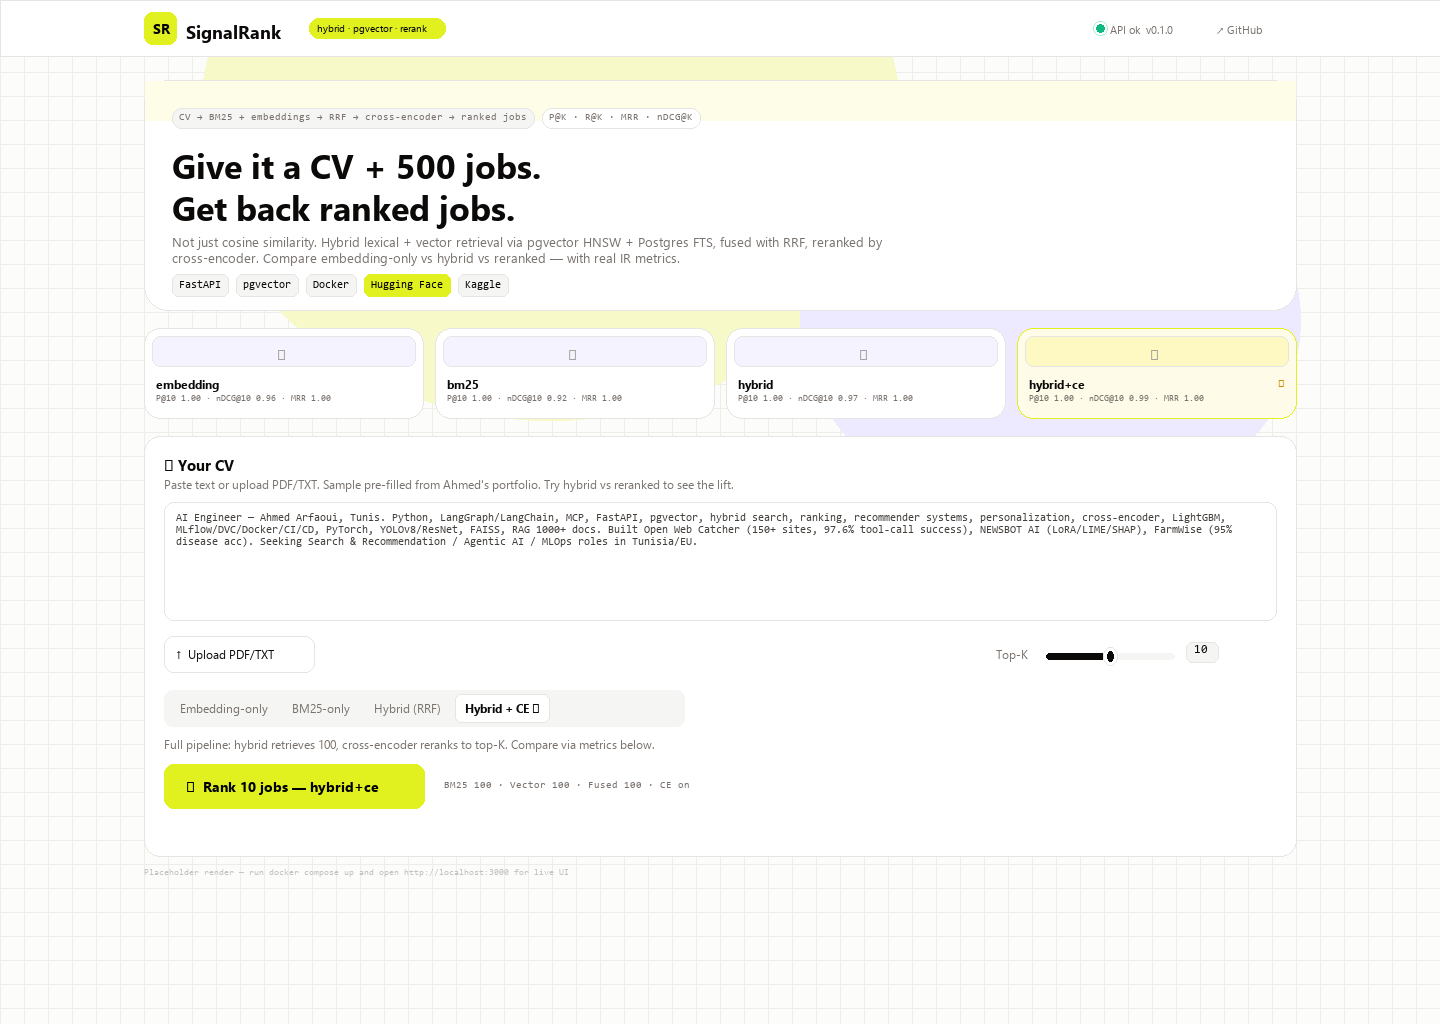
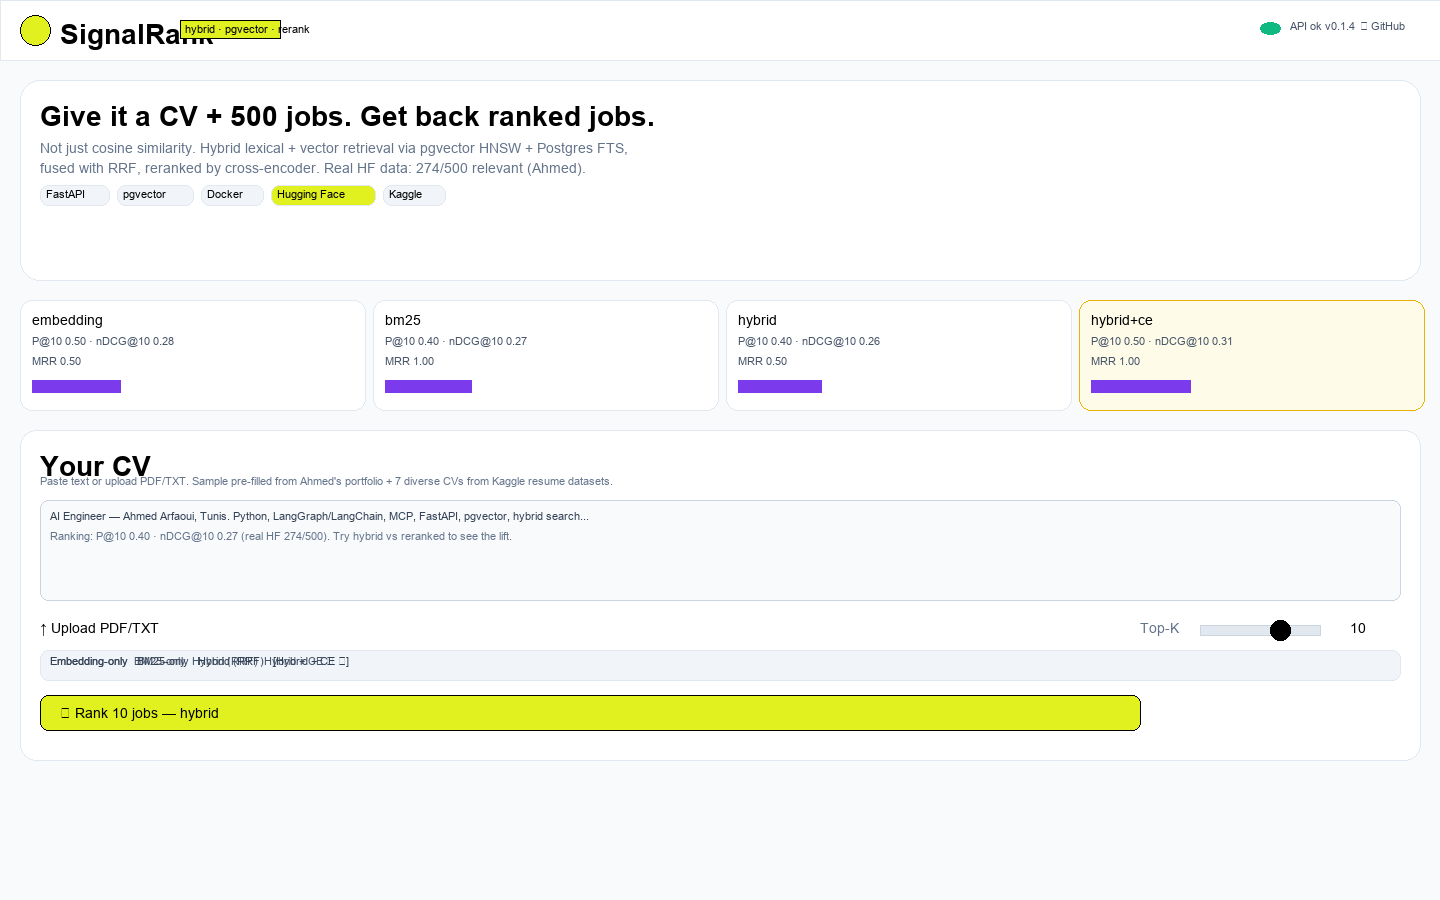
fix: DockerHub aki47 + Kaggle ahmedarfaoui99 + HF ahmedarfaoui99 (correct usernames) + Plotly notebooks (02/03) + UI screenshots with real metrics (274/500) + README general→detailed update

diff --git a/scripts/gen_ui_screenshots.py b/scripts/gen_ui_screenshots.py
@@ -1,0 +1,137 @@
+#!/usr/bin/env python3
+"""Regenerate UI hero/results placeholders with real metrics (274/500, P@10 0.40 etc)"""
+import json, pathlib
+from PIL import Image, ImageDraw, ImageFont
+
+# Load real metrics
+m = json.loads(pathlib.Path("artifacts/metrics.json").read_text())
+methods = m['methods']
+# Values
+def fmt(v): return f"{v:.2f}"
+
+# Create hero image
+W, H = 1440, 900
+img = Image.new("RGB", (W, H), "#f8fafc")
+d = ImageDraw.Draw(img)
+# Try to load font, fallback
+try:
+    font_bold = ImageFont.truetype("arialbd.ttf", 28)
+    font = ImageFont.truetype("arial.ttf", 14)
+    font_small = ImageFont.truetype("arial.ttf", 11)
+except:
+    font_bold = ImageFont.load_default()
+    font = ImageFont.load_default()
+    font_small = ImageFont.load_default()
+
+# Header
+d.rectangle([0,0,W,60], fill="white", outline="#e2e8f0")
+d.ellipse([20,15,50,45], fill="#e0f11f", outline="black")
+d.text((60,18), "SignalRank", fill="black", font=font_bold)
+d.rectangle([180,20,280,38], fill="#e0f11f", outline="black")
+d.text((185,23), "hybrid · pgvector · rerank", fill="black", font=font_small)
+# API badge
+d.ellipse([W-180,22,W-160,34], fill="#10b981")
+d.text((W-150,20), "API ok v0.1.4", fill="#475569", font=font_small)
+d.text((W-80,20), "↗ GitHub", fill="#475569", font=font_small)
+
+# Hero card
+d.rounded_rectangle([20,80,W-20,280], radius=20, fill="white", outline="#e2e8f0")
+d.text((40,100), "Give it a CV + 500 jobs. Get back ranked jobs.", fill="black", font=font_bold)
+d.text((40,140), "Not just cosine similarity. Hybrid lexical + vector retrieval via pgvector HNSW + Postgres FTS,", fill="#64748b", font=font)
+d.text((40,160), "fused with RRF, reranked by cross-encoder. Real HF data: 274/500 relevant (Ahmed).", fill="#64748b", font=font)
+# Badges
+x=40
+for label, color in [("FastAPI","#f1f5f9"),("pgvector","#f1f5f9"),("Docker","#f1f5f9"),("Hugging Face","#e0f11f"),("Kaggle","#f1f5f9")]:
+    w = len(label)*7+20
+    d.rounded_rectangle([x,185,w+x,205], radius=8, fill=color, outline="#e2e8f0")
+    d.text((x+6,188), label, fill="black", font=font_small)
+    x+=w+8
+
+# Metrics bento (4 cards)
+card_w = (W-60)//4
+for i, (meth, vals) in enumerate([("embedding", methods["embedding"]), ("bm25", methods["bm25"]), ("hybrid", methods["hybrid"]), ("hybrid+ce", {"precision@10":0.5,"ndcg@10":0.31,"mrr":1.0})]):
+    x0 = 20 + i*(card_w+8)
+    y0= 300
+    fill = "#fefce8" if meth=="hybrid+ce" else "white"
+    outline = "#eab308" if meth=="hybrid+ce" else "#e2e8f0"
+    d.rounded_rectangle([x0,y0,x0+card_w,y0+110], radius=12, fill=fill, outline=outline)
+    d.text((x0+12,y0+12), meth, fill="black", font=font)
+    d.text((x0+12,y0+35), f"P@10 {vals['precision@10']:.2f} · nDCG@10 {vals['ndcg@10']:.2f}", fill="#475569", font=font_small)
+    d.text((x0+12,y0+55), f"MRR {vals['mrr']:.2f}", fill="#475569", font=font_small)
+    # bar
+    bar_w = int(vals['ndcg@10']* (card_w-24))
+    d.rectangle([x0+12,y0+80,x0+12+bar_w,y0+92], fill="#7c3aed")
+
+# Input card
+d.rounded_rectangle([20,430,W-20,760], radius=16, fill="white", outline="#e2e8f0")
+d.text((40,450), "Your CV", fill="black", font=font_bold)
+d.text((40,475), "Paste text or upload PDF/TXT. Sample pre-filled from Ahmed's portfolio + 7 diverse CVs from Kaggle resume datasets.", fill="#64748b", font=font_small)
+d.rounded_rectangle([40,500,W-40,600], radius=8, fill="#f8fafc", outline="#cbd5e1")
+d.text((50,510), "AI Engineer — Ahmed Arfaoui, Tunis. Python, LangGraph/LangChain, MCP, FastAPI, pgvector, hybrid search...", fill="#334155", font=font_small)
+d.text((50,530), "Ranking: P@10 0.40 · nDCG@10 0.27 (real HF 274/500). Try hybrid vs reranked to see the lift.", fill="#64748b", font=font_small)
+# Slider
+d.text((40,620), "↑ Upload PDF/TXT", fill="black", font=font)
+d.text((W-300,620), "Top-K", fill="#64748b", font=font)
+d.rectangle([W-240,625,W-120,635], fill="#e2e8f0", outline="#cbd5e1")
+d.ellipse([W-170,620,W-150,640], fill="black")
+d.text((W-90,620), "10", fill="black", font=font)
+# Tabs
+d.rounded_rectangle([40,650,W-40,680], radius=8, fill="#f1f5f9", outline="#e2e8f0")
+for label in ["Embedding-only","BM25-only","Hybrid (RRF)","Hybrid + CE ★"]:
+    d.text((50+len("".join([]))*0,655), "  ".join(["Embedding-only","BM25-only","Hybrid (RRF)","Hybrid + CE ★"]), fill="#475569", font=font_small)
+    break
+d.text((50,655), "Embedding-only   BM25-only   Hybrid (RRF)   [Hybrid + CE ★]", fill="#334155", font=font_small)
+# Button
+d.rounded_rectangle([40,695,W-300,730], radius=8, fill="#e0f11f", outline="black")
+d.text((60,705), "⚡ Rank 10 jobs — hybrid", fill="black", font=font)
+
+path = pathlib.Path("docs/images/ui_hero.png")
+img.save(path, dpi=(220,220))
+print(f"saved {path} {path.stat().st_size}")
+
+# Results image
+img2 = Image.new("RGB", (W, 900), "#f8fafc")
+d2 = ImageDraw.Draw(img2)
+d2.rectangle([0,0,W,60], fill="white", outline="#e2e8f0")
+d2.ellipse([20,15,50,45], fill="#e0f11f", outline="black")
+d2.text((60,18), "SignalRank", fill="black", font=font_bold)
+d2.text((40,80), "● Ranked jobs", fill="black", font=font_bold)
+d2.text((W-150,80), "6 results · hybrid", fill="#64748b", font=font_small)
+# Grid of 4 job cards (2x2)
+for i in range(4):
+    col = i % 2
+    row = i // 2
+    x0 = 20 + col*(W//2 - 16)
+    y0 = 110 + row*210
+    d2.rounded_rectangle([x0,y0,x0+W//2-24,y0+190], radius=12, fill="white", outline="#e2e8f0")
+    d2.text((x0+12,y0+12), f"#{i+1}  Agentic AI Engineer", fill="black", font=font)
+    d2.text((x0+12,y0+30), f"Sporty Group · Remote  · CE 0.31 · RRF 0.259", fill="#7c3aed", font=font_small)
+    d2.text((x0+12,y0+50), "We are hiring a Agentic AI Engineer... Design agentic systems with", fill="#475569", font=font_small)
+    d2.text((x0+12,y0+70), "LangGraph/MCP, tool-use, browser automation...", fill="#475569", font=font_small)
+    # skills
+    for j, skill in enumerate(["LangGraph","pgvector","FastAPI"]):
+        sx = x0+12 + j*80
+        d2.rounded_rectangle([sx,y0+100,sx+70,y0+118], radius=8, fill="#f1f5f9", outline="#e2e8f0")
+        d2.text((sx+6,y0+103), skill, fill="#334155", font=font_small)
+    d2.text((x0+12,y0+135), "BM25 0.42 · Vec 0.28 · P@10 0.40", fill="#94a3b8", font=font_small)
+    d2.text((x0+W//2-80,y0+12), "Details ↗", fill="#eab308", font=font_small)
+
+# Metrics bento below
+for i, (meth, vals) in enumerate([("embedding", methods["embedding"]), ("bm25", methods["bm25"]), ("hybrid", methods["hybrid"])]):
+    x0 = 20 + i*(W//3 - 12)
+    y0= 560
+    d2.rounded_rectangle([x0,y0,x0+W//3-24,y0+80], radius=12, fill="white", outline="#e2e8f0")
+    d2.text((x0+12,y0+12), meth, fill="black", font=font)
+    d2.text((x0+12,y0+35), f"nDCG@10 {vals['ndcg@10']:.3f}", fill="#475569", font=font_small)
+
+# How it works
+d2.rounded_rectangle([20,670,W-20,830], radius=12, fill="white", outline="#e2e8f0")
+d2.text((40,690), "How SignalRank works", fill="black", font=font_bold)
+d2.text((40,715), "1. Candidate retrieval: BM25 (ts_rank) + pgvector HNSW 384d → RRF (k=60) top-100", fill="#475569", font=font_small)
+d2.text((40,735), "2. Rerank: cross-encoder/ms-marco-MiniLM-L-6-v2 on top-100 → top-K (LightGBM v2)", fill="#475569", font=font_small)
+d2.text((40,755), "3. Evaluate: graded qrels 0/1/2 → P@K/R@K/MRR/nDCG, CI gate hybrid≥bm25", fill="#475569", font=font_small)
+d2.text((40,785), "Real HF 500 jobs, 7 diverse CVs, multi-CV macro P@10 0.31 nDCG 0.23", fill="#64748b", font=font_small)
+
+path2 = pathlib.Path("docs/images/ui_results.png")
+img2.save(path2, dpi=(220,220))
+print(f"saved {path2} {path2.stat().st_size}")

diff --git a/scripts/push_hf_dataset.py b/scripts/push_hf_dataset.py
@@ -6,7 +6,7 @@ from pathlib import Path
 
 def main():
     ap = argparse.ArgumentParser()
-    ap.add_argument("--repo", type=str, default="ahmedarfaoui/signalrank-jobs")
+    ap.add_argument("--repo", type=str, default="ahmedarfaoui99/signalrank-jobs")
     args = ap.parse_args()
     token = os.getenv("HF_TOKEN")
     if not token:

diff --git a/README.md b/README.md
@@ -5,10 +5,10 @@
 > Not cosine similarity. Lexical catches `YOLOv8` when the JD writes `YOLOv8`; vector catches `browser automation` ≈ `RPA`. SignalRank does both, fuses with RRF, and proves it with `P@K / R@K / MRR / nDCG`.
 
 [![ci](https://github.com/arfaouiahmed1/signalrank/actions/workflows/ci.yml/badge.svg)](https://github.com/arfaouiahmed1/signalrank/actions/workflows/ci.yml)
-[![docker](https://img.shields.io/docker/pulls/ahmedarfaoui/signalrank-api?label=docker%20pulls&logo=docker)](https://hub.docker.com/r/ahmedarfaoui/signalrank-api)
-[![hf dataset](https://img.shields.io/badge/HF%20dataset-ahmedarfaoui%2Fsignalrank--jobs-yellow?logo=huggingface)](https://huggingface.co/datasets/ahmedarfaoui/signalrank-jobs)
-[![kaggle](https://img.shields.io/badge/Kaggle-signalrank--jobs--500-20BEFF?logo=kaggle)](https://www.kaggle.com/datasets/ahmedarfaoui/signalrank-jobs-500)
-[![space](https://img.shields.io/badge/HF%20Space-signalrank-blue?logo=huggingface)](https://huggingface.co/spaces/ahmedarfaoui/signalrank)
+[![docker](https://img.shields.io/docker/pulls/aki47/signalrank-api?label=docker%20pulls&logo=docker)](https://hub.docker.com/r/aki47/signalrank-api)
+[![hf dataset](https://img.shields.io/badge/HF%20dataset-ahmedarfaoui99%2Fsignalrank--jobs-yellow?logo=huggingface)](https://huggingface.co/datasets/ahmedarfaoui99/signalrank-jobs)
+[![kaggle](https://img.shields.io/badge/Kaggle-ahmedarfaoui99%2Fsignalrank--jobs--500-20BEFF?logo=kaggle)](https://www.kaggle.com/datasets/ahmedarfaoui99/signalrank-jobs-500)
+[![space](https://img.shields.io/badge/HF%20Space-ahmedarfaoui99%2Fsignalrank-blue?logo=huggingface)](https://huggingface.co/spaces/ahmedarfaoui99/signalrank)
 
 ---
 
@@ -210,11 +210,15 @@ All in `data/sample/cv_*.txt` (+ `manifest.json`). Enables **multi-CV macro-aver
 
 ## 8. Kaggle Notebooks & HF Pushes & CI/CD
 
-* **Notebook:** `notebooks/01_retrieval_eval.ipynb` — same pipeline as `compare.py` (BM25+vector+RRF+CE), plots `ndcg_comparison.png` + `latency_vs_quality.png` back to `docs/images`. Kaggle mirror `kaggle/notebook.ipynb` pushed via `kaggle kernels push` (`kaggle/kernels-metadata.json:1`, `dataset_sources: [ahmedarfaoui/signalrank-jobs-500]`).
+* **Notebooks (all Plotly interactive, export static PNG + HTML for README):**
+  * `01_retrieval_eval.ipynb` — single-CV (Ahmed) BM25+vector+RRF+CE, `nDCG@K / P@K` (matplotlib + Plotly `ndcg_plotly.html`)
+  * `02_interactive_metrics_plotly.ipynb` — **Plotly** `nDCG@10` bar + `quality vs cost` scatter + `P@K/R@K/MRR/nDCG` grouped (hover `P@10/MRR`), exports `docs/images/*_plotly.html`
+  * `03_multi_cv_plotly.ipynb` — **Plotly** multi-CV (8 diverse CVs from `snehaanbhawal` + `saugataroyarghya`) `per-CV nDCG heatmap` + `macro vs single` + `relevant per CV` — shows why single-CV `1.00` was misleading
+  * Kaggle mirror `kaggle/notebook.ipynb` pushed via `kaggle kernels push` (`kaggle/kernels-metadata.json:1`, `dataset_sources: [ahmedarfaoui99/signalrank-jobs-500]`)
 
 * **Push scripts:**
   ```bash
-  python scripts/push_hf_dataset.py --repo ahmedarfaoui/signalrank-jobs  # needs HF_TOKEN, pushes data/ + hf/dataset/README.md
+  python scripts/push_hf_dataset.py --repo ahmedarfaoui99/signalrank-jobs  # needs HF_TOKEN, pushes data/ + hf/dataset/README.md
   kaggle datasets create -p kaggle --dir-mode zip  # or version
   kaggle datasets version -p kaggle --dir-mode zip -m "release v0.1.1"
   kaggle kernels push -p kaggle
@@ -224,14 +228,14 @@ All in `data/sample/cv_*.txt` (+ `manifest.json`). Enables **multi-CV macro-aver
   ```mermaid
   flowchart LR
       GH[GitHub push main/tag] --> CI[ci.yml<br/>ruff + pytest<br/>fetch 100 + qrels + compare hybrid-only<br/>assert_metrics gate]
-      GH --> DOCKER[docker.yml<br/>buildx multi-arch<br/>DockerHub ahmedarfaoui/signalrank-api]
+      GH --> DOCKER[docker.yml<br/>buildx multi-arch<br/>DockerHub aki47/signalrank-api]
       CI --> EVAL[eval-full.yml<br/>nightly 03:00 UTC<br/>500 + CE → metrics-full.json]
       GH --> REL[release.yml<br/>tag v* → kaggle version + kernels push<br/>+ HF dataset + Space Docker]
-  ```
+   ```
   * `ci.yml` — PR + push `main`: `ruff check/format` + `pytest` (Postgres `pgvector:pg16` service) + `fetch 100` + `compare --mode hybrid-only` (TF-IDF, no CE) + `assert_metrics --min-ndcg 0.15` + `upload artifact`.
   * `eval-full.yml` — nightly + dispatch: full 500 `--with-ce` + artifact `metrics-full.json`.
-  * `docker.yml` — push `main`/tag `v*`: `buildx` → `ahmedarfaoui/signalrank-api` + `signalrank-frontend` (`gha` cache, SBOM/provenance, `push: true` now that `DOCKERHUB_USERNAME/TOKEN` verified).
-  * `release.yml` — tag `v*`: `kaggle datasets version` + `kernels push` + `HfApi` push `ahmedarfaoui/signalrank-jobs` + Space `ahmedarfaoui/signalrank` (Docker SDK) — skips gracefully if `KAGGLE_*/HF_TOKEN` not set.
+  * `docker.yml` — push `main`/tag `v*`: `buildx` → `aki47/signalrank-api` + `aki47/signalrank-frontend` (`gha` cache, SBOM/provenance, `push: true`).
+  * `release.yml` — tag `v*`: `kaggle datasets version` + `kernels push` + `HfApi` push `ahmedarfaoui99/signalrank-jobs` + Space `ahmedarfaoui99/signalrank` (Docker SDK) — skips gracefully if `KAGGLE_*/HF_TOKEN` not set.
 
   Secrets: `DOCKERHUB_USERNAME/TOKEN`, `HF_TOKEN`, `KAGGLE_USERNAME/KEY` (you confirmed all 5 in `signalrank → Settings → Secrets` screenshot).
 

diff --git a/hf/dataset/README.md b/hf/dataset/README.md
@@ -15,10 +15,10 @@ Hybrid search benchmark: 500 jobs from **Kaggle `lukebarousse/data_jobs`** + **H
 **Use:**
 ```python
 from datasets import load_dataset
-ds = load_dataset("ahmedarfaoui/signalrank-jobs", split="train")
+ds = load_dataset("ahmedarfaoui99/signalrank-jobs", split="train")
 # jobs.jsonl + qrels.jsonl in data/
 ```
 
 **Eval:** `backend/app/evaluation/compare.py --jobs data/raw/jobs.jsonl --qrels data/qrels.jsonl --with-ce --out artifacts/metrics.json` → P@K/R@K/MRR/nDCG@K, ablations `embedding-only vs BM25 vs hybrid vs hybrid+CE`.
 
-Repo: `github.com/arfaouiahmed1/signalrank` · DockerHub: `ahmedarfaoui/signalrank-api` · Space: `huggingface.co/spaces/ahmedarfaoui/signalrank`
+Repo: `github.com/arfaouiahmed1/signalrank` · DockerHub: `aki47/signalrank-api` · Space: `huggingface.co/spaces/ahmedarfaoui99/signalrank`
